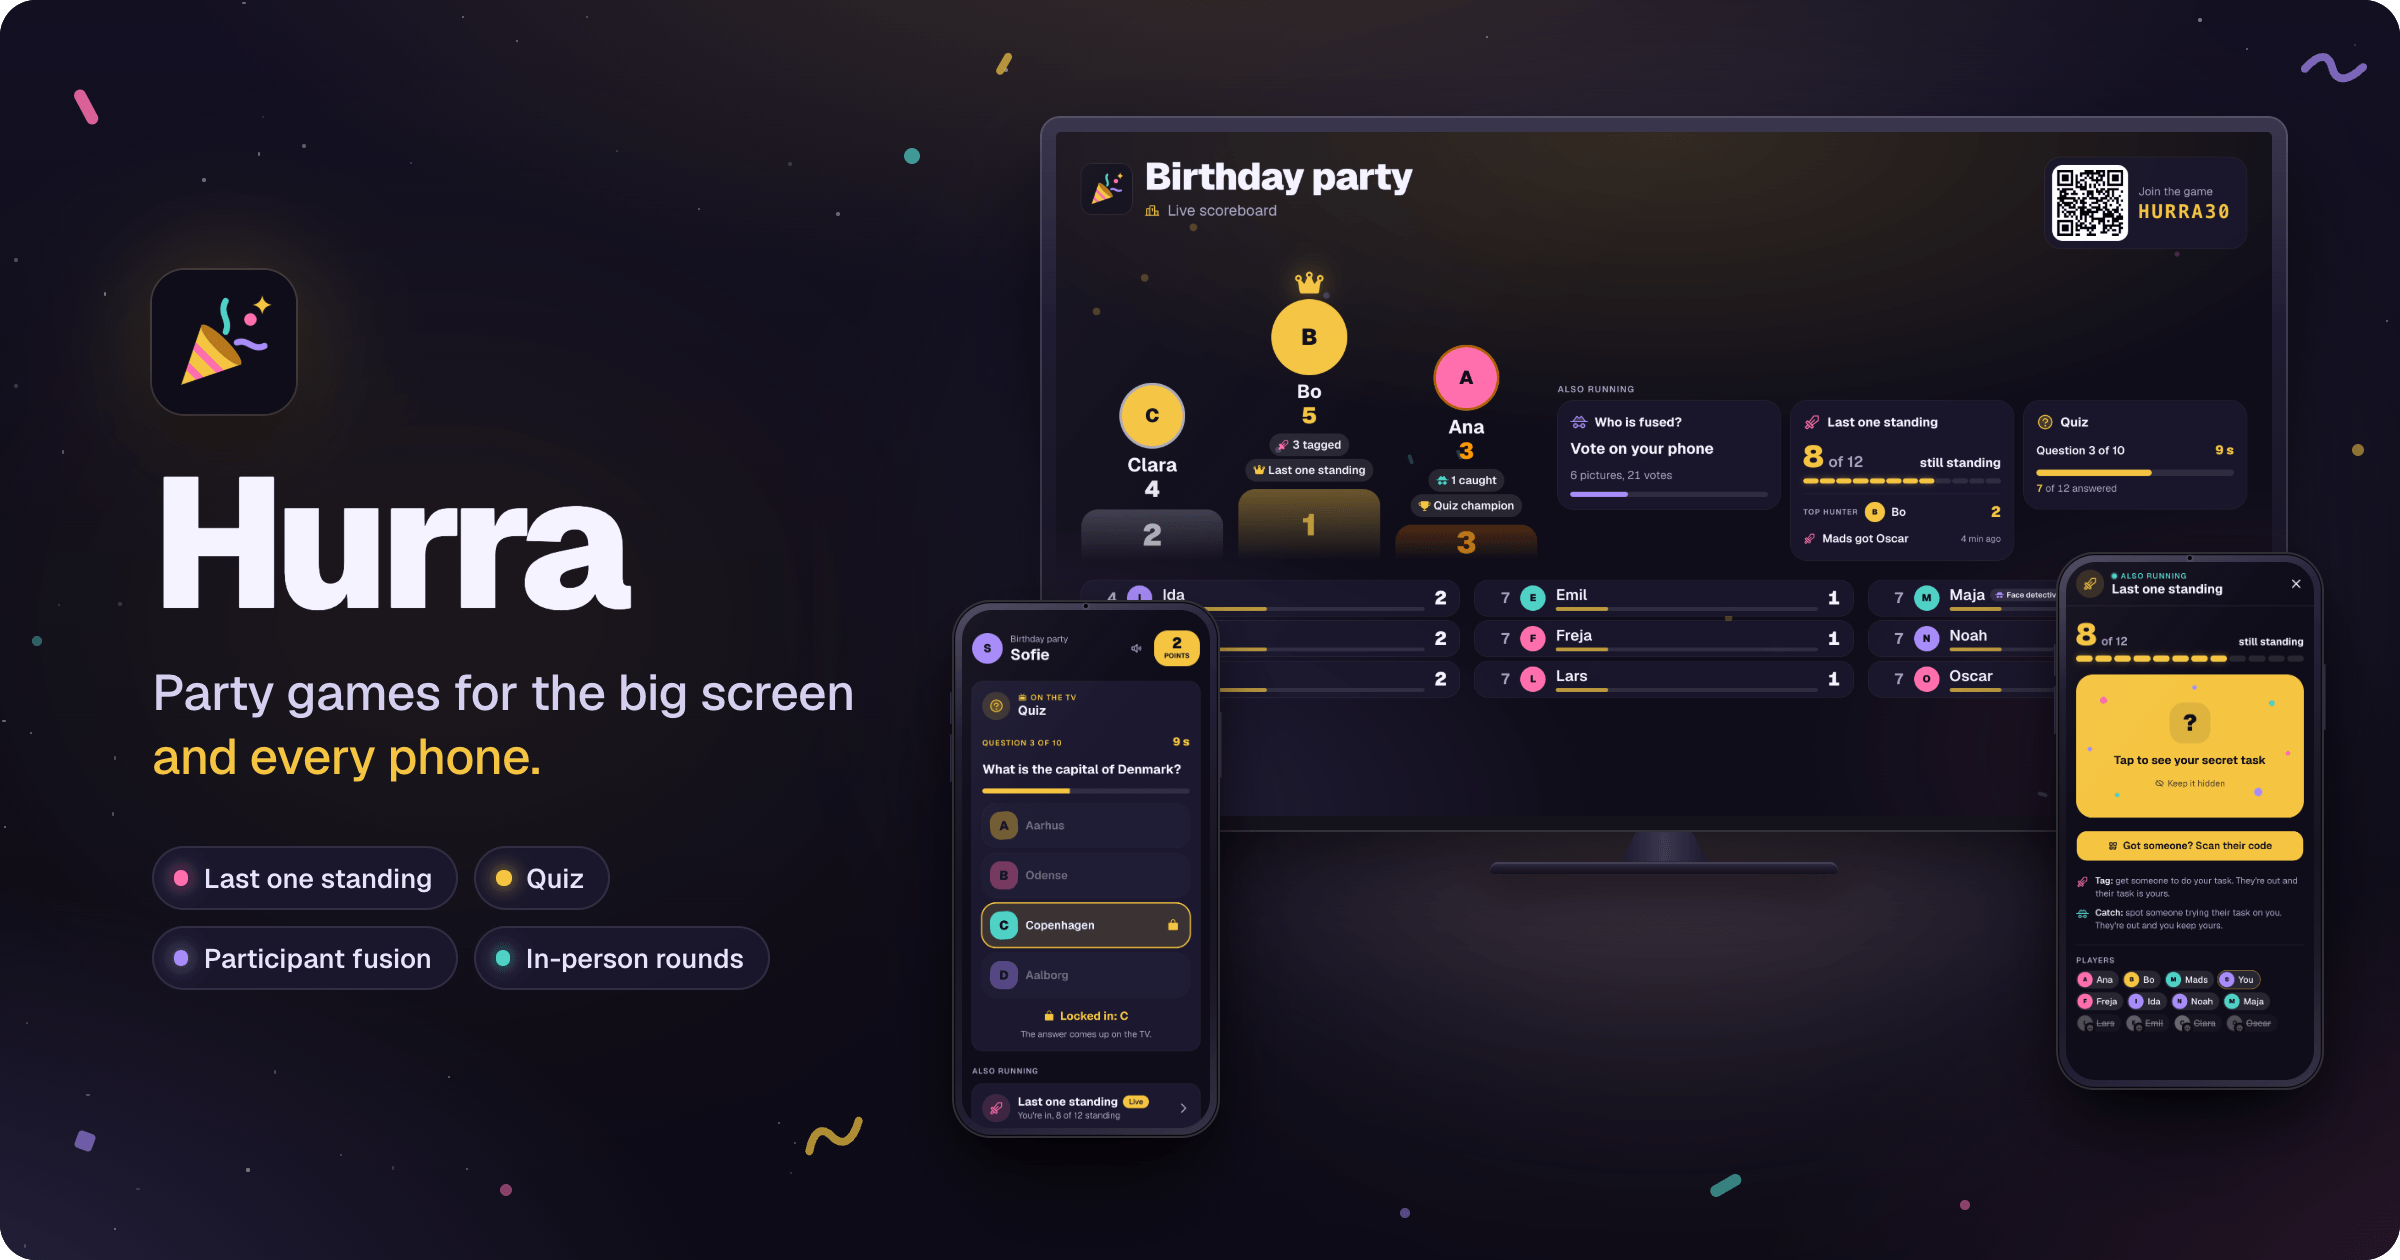
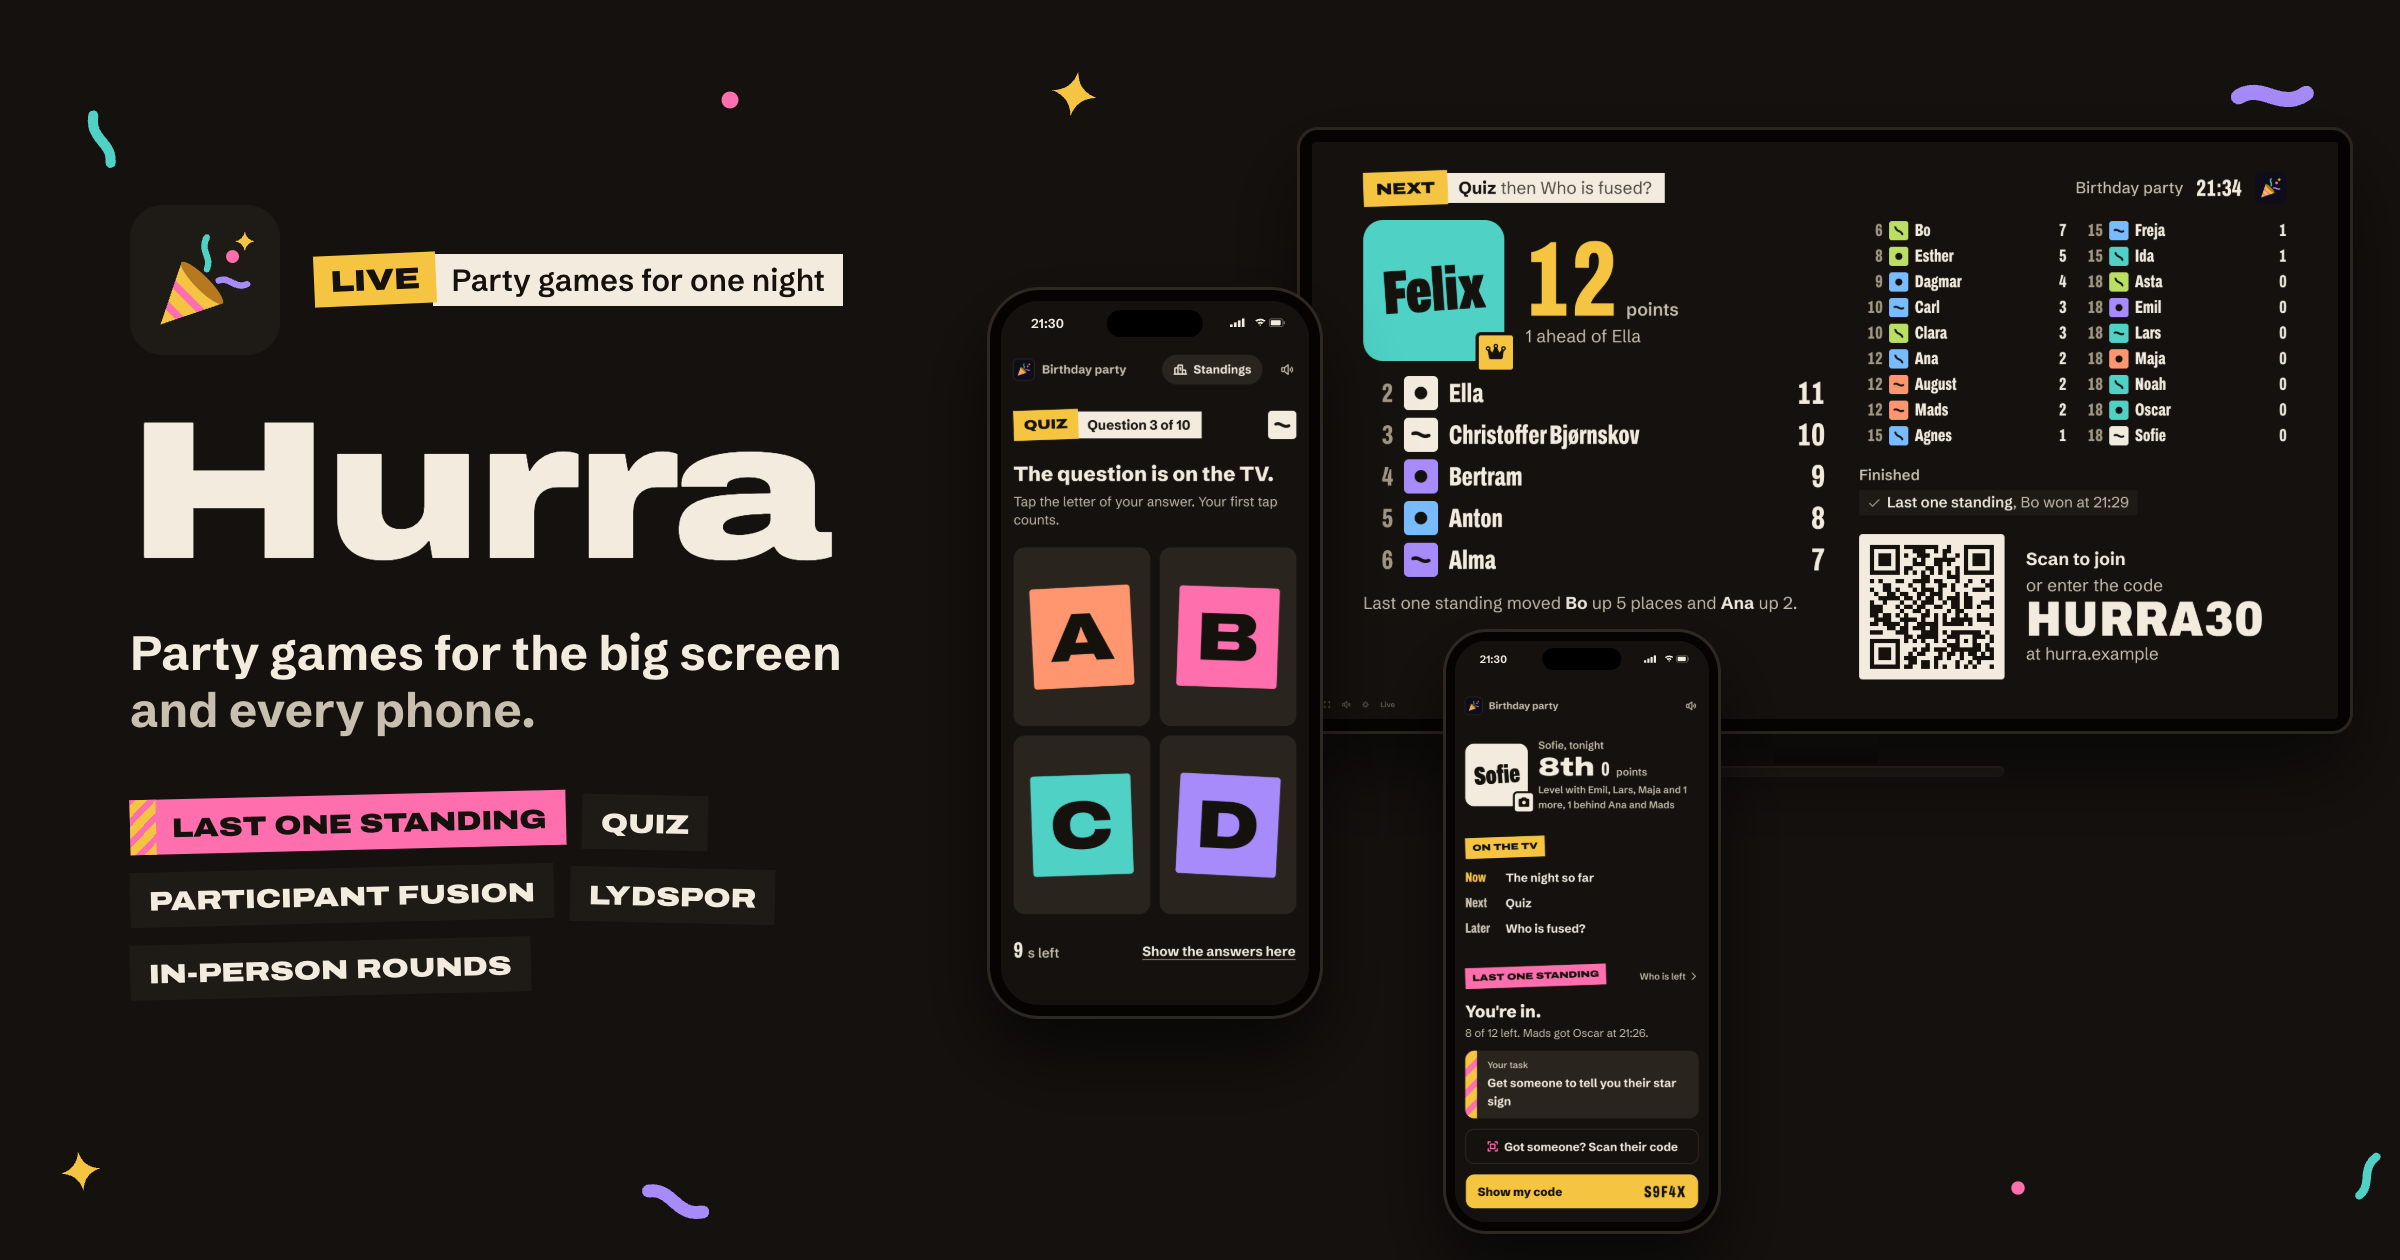
The README's pictures show Hurra as it looks now, with all five games
Every store image is new, in the Running Order look: the warm studio black,
a tilted gold tab over a paper strap (pink with the popper's stripes for Last
one standing), Archivo wide for the big words, Schibsted Grotesk for reading,
the logo's four confetti pieces, and flat devices with no glass. Same file
names and sizes, so the layout holds; tv-5 (Participant fusion's reveal),
tv-6 (Lydspor's wall of event photos) and phone-6 (Lydspor's reveal, where a
close title counts) are new.

Captured only from the dev build's ?fixture scenes (sample names, drawn
pictures), TV at 1920x1080 2x, phones at 390x844 3x, the control room at
1440x900 2x. The TV prints its join address as hurra.example, a reserved
name, and Lydspor's event photos, which the local stack has no files for,
are drawn placeholder scenes.

README: the hero's alt text names the five games, "Four games" is now five,
the phones stand in two rows of three, every alt text and caption describes
its new picture, What's new gains Lydspor, fusion as a stage show, the guest
list, guest photos, latecomers dealt in, the phone following the TV and the
Brighter picture, and the games table has a Lydspor row.

diff --git a/README.md b/README.md
@@ -1,5 +1,5 @@
 <p align="center">
-  <img src="docs/screenshots/store/hero.png" width="100%" alt="Hurra: party games for the big screen and every phone. A TV shows the live scoreboard with a podium and the join code, while one phone answers the quiz and another holds a secret task in Last one standing.">
+  <img src="docs/screenshots/store/hero.png" width="100%" alt="Hurra: party games for the big screen and every phone. A TV shows the standings with Felix in the lead, the whole field and the QR code to join, while one phone holds the quiz's four letters and another a secret task in Last one standing. Beside them, the five games: Last one standing, Quiz, Participant fusion, Lydspor and In-person rounds.">
 </p>
 
 <p align="center">
@@ -8,47 +8,63 @@
 </p>
 
 <p align="center">
-  Free&nbsp;&nbsp;·&nbsp;&nbsp;No app to install&nbsp;&nbsp;·&nbsp;&nbsp;Up to 45 players&nbsp;&nbsp;·&nbsp;&nbsp;Four games, several at once&nbsp;&nbsp;·&nbsp;&nbsp;Made in Copenhagen
+  Free&nbsp;&nbsp;·&nbsp;&nbsp;No app to install&nbsp;&nbsp;·&nbsp;&nbsp;Up to 45 players&nbsp;&nbsp;·&nbsp;&nbsp;Five games, several at once&nbsp;&nbsp;·&nbsp;&nbsp;Made in Copenhagen
 </p>
 
 ## Screenshots
 
 <p align="center">
-  <img src="docs/screenshots/store/phone-1.png" width="160" alt="Join: scan, pick a name, and you're in. The phone shows the standings and a button to show your own code.">
-  <img src="docs/screenshots/store/phone-2.png" width="160" alt="Quiz: the question and four answers on the phone, with the seconds counting down.">
-  <img src="docs/screenshots/store/phone-3.png" width="160" alt="Participant fusion: pick the two guests fused into a picture on your phone.">
-  <img src="docs/screenshots/store/phone-4.png" width="160" alt="Last one standing: your secret task, how many are still standing, and a button to scan someone's code.">
-  <img src="docs/screenshots/store/phone-5.png" width="160" alt="Recap: your place for the night and your points game by game.">
+  <img src="docs/screenshots/store/phone-1.png" width="200" alt="Join: Who are you? on the phone, with the host's guest list to tap your name in, a search, and I'm not on the list for anyone the host didn't add.">
+  <img src="docs/screenshots/store/phone-2.png" width="200" alt="Quiz: the question is on the TV, and the phone holds the four letters A to D, with 9 seconds left and Show the answers here.">
+  <img src="docs/screenshots/store/phone-3.png" width="200" alt="Participant fusion: Who is in it? for picture 4, with 14 seconds left and the names only, no photos. Ana and Mads are picked, and Lock in is ready.">
 </p>
 
 <p align="center">
-  <img src="docs/screenshots/store/tv-1.png" width="100%" alt="The TV between games: the podium with Bo, Clara and Ana, everyone's points, and the QR code to join.">
+  <img src="docs/screenshots/store/phone-4.png" width="200" alt="Last one standing: You're in, 8 of 12 left, the secret task turned over to read Get someone to tell you their star sign, and a button to scan someone's code.">
+  <img src="docs/screenshots/store/phone-6.png" width="200" alt="Lydspor: the reveal of song 1 on the phone. The event photo L, The harbour, 2009, is right, and the title Paper Lanterns, typed as Papir Lanterner, counts because the host accepted it as close.">
+  <img src="docs/screenshots/store/phone-5.png" width="200" alt="Recap: That's a wrap. Sofie's night on her phone: 5th of 12 with 10 points, and her points game by game.">
+</p>
+
+<p align="center">
+  <img src="docs/screenshots/store/tv-1.png" width="100%" alt="The TV between games: Felix leads with 12 points, the next five and the whole field with Out beside the guests knocked out, the QR code and HURRA30 to join, and Last one standing running in the band at the bottom.">
   <br>
-  <sub>Between games, the TV shows the podium, everyone's points and the code to join.</sub>
+  <sub>Between games, the TV shows the leader, the standings and the code to join, with the games in the background along the bottom.</sub>
 </p>
 
 <p align="center">
-  <img src="docs/screenshots/store/tv-2.png" width="100%" alt="The TV during the quiz: question 3 of 10 with 7 of 12 answered, the top 5, and Who is fused? and Last one standing running beside it.">
+  <img src="docs/screenshots/store/tv-2.png" width="100%" alt="The quiz on the TV: What is the capital of Denmark? with the four answers A to D, 9 seconds left, and 6 of 24 have answered.">
   <br>
-  <sub>Answers come in live, with the top 5 and the background games beside the question.</sub>
+  <sub>The question and its four answers fill the TV, with the seconds left and how many have answered.</sub>
 </p>
 
 <p align="center">
-  <img src="docs/screenshots/store/tv-4.png" width="100%" alt="The TV after an in-person round: Freja wins Beer pong, with the top 5 and the games still running beside it.">
+  <img src="docs/screenshots/store/tv-5.png" width="100%" alt="Participant fusion on the TV: the reveal of picture 4, the fused portrait in the middle with Bo and Maja's own photos on either side, 3 of 9 got both, and the sharpest eyes so far.">
   <br>
-  <sub>When a game on the stage finishes, its final screen stays up for 3 minutes.</sub>
+  <sub>Participant fusion is a stage show: each picture comes up with a little suspense, and its reveal brings in the two originals.</sub>
 </p>
 
 <p align="center">
-  <img src="docs/screenshots/store/tv-3.png" width="100%" alt="The recap on the TV: The race, the top 8 and their points through the night.">
+  <img src="docs/screenshots/store/tv-6.png" width="100%" alt="Lydspor on the TV: song 5 of 8 is playing, 6 of 10 have typed a title, the songs so far with their times, and the wall of 12 event photos lettered A to L.">
+  <br>
+  <sub>In Lydspor a song plays, and everyone pairs it with its event on the wall of photos.</sub>
+</p>
+
+<p align="center">
+  <img src="docs/screenshots/store/tv-4.png" width="100%" alt="The TV after an in-person round: Hurra for Freja, who won Beer pong with 7 points, the night's top three on paper steps, and the games still running underneath.">
+  <br>
+  <sub>When a game on the stage finishes, its winner gets the screen for 3 minutes.</sub>
+</p>
+
+<p align="center">
+  <img src="docs/screenshots/store/tv-3.png" width="100%" alt="The recap on the TV: The race, the top 8 and their points through the night, with Bo, Freja and Maja level on 12.">
   <br>
   <sub>The race, one part of the recap: the top 8 and their points through the night.</sub>
 </p>
 
 <p align="center">
-  <img src="docs/screenshots/store/host.png" width="100%" alt="The host control room on a laptop: the quiz on the TV now, three live games, the join code and the players.">
+  <img src="docs/screenshots/store/host.png" width="100%" alt="The host control room on a laptop: the quiz on the TV now, the three live games as cards, the join code and the guest list with 12 of 16 here. Beside it, the control room on a phone shows the guests: four Not yet and the rest Here.">
   <br>
-  <sub>The control room runs on a laptop or a phone. Pair a TV, start games and find any guest.</sub>
+  <sub>The control room runs on a laptop or a phone. Pair a TV, start games and see who is here.</sub>
 </p>
 
 ## What's new
@@ -60,13 +76,28 @@
 - **A live quiz.** Questions on the TV, answers on every phone. Faster right
   answers score more.
 - **Participant fusion.** AI portraits of two fused guests, hidden until each
-  is asked: the TV picks the next one with a little suspense, then you pick
-  the two names on your phone and lock in. The name search works like an
-  autocomplete, so "soren" finds Søren.
+  is asked. You pick the two names on your phone and lock in. The name search
+  works like an autocomplete, so "soren" finds Søren.
+- **Fusion as a stage show.** A highlight hops across the wall of "?" pictures
+  and lands on the next one. Phones show names only, no photos, and the
+  reveal brings in the two originals beside the picture.
+- **Lydspor.** A song plays, and you pair it with its event on a wall of
+  photos, then type its title and who sings it. Close spelling counts, and
+  the host can accept more answers.
+- **The guest list.** The host adds the guests before the party. You pick
+  your name when you join, and the host sees who is Here and who is Not yet.
+- **Guest photos.** Add a photo as you join, and it stands for you on the TV
+  and every phone.
+- **Latecomers dealt in.** Join after Last one standing has started, and you
+  still get a secret task of your own.
+- **The phone follows the TV.** While a game holds the TV, your phone shows
+  only that game, with the standings one tap away.
 - **The night's recap.** The host previews and publishes it, the TV plays it,
   and every guest finds their own night on their phone.
 - **The TV from your own browser.** No second device for the TV? *Show the TV
   here* opens it in a tab of the host's browser, ready to cast.
+- **A brighter picture.** For a TV that shows dark tones as black, *Brighter
+  picture* in the TV's corner lifts the dark end of the look.
 - **Sound effects under the music.** The host sets how loud the TV plays
   its sound effects, from off to full, so they sit under the party's music.
 - **Games that finish by themselves.** The quiz, fusion and Last one standing
@@ -85,6 +116,7 @@
 | **Last one standing** | All night, in the background | Everyone gets a secret task and one life. Get someone to do your task and they're out, and their task becomes yours. Or catch someone trying theirs on you. Scan their code to knock them out. The TV keeps count of who is still standing, and the last one standing wins. |
 | **Quiz** | On the TV | The host runs the questions and everyone answers on their phone. Right answers score more the faster they come. Time's up reveals the answer, a leaderboard follows, and the host crowns the winner. |
 | **Participant fusion** | On the TV | AI images fuse two guests into one portrait. The pictures stay hidden on the TV (a "?" over a drawn head and shoulders) until the host asks them one by one; the TV picks each with a little suspense, and everyone picks the two names in it on their phone (names only, no photos) and locks in before time runs out. The reveal shows who it was, with their own photos. Everyone guesses every picture, the two in it too. The host crowns the sharpest eye. |
+| **Lydspor** | On the TV | Each song belongs to an event, shown as a photo on the wall. A song plays, and everyone types its title and who sings it on their phone and taps the photo of its event. Close spelling counts, and any song can change until the last call. Then the storyteller reveals each song and tells its story. |
 | **In-person round** | In the room | Points for anything that happens in the room, like a round of beer pong. The host gives them by hand, by scanning the guest's code. |
 
 Several games run at once: a long one in the background while short ones take
@@ -92,7 +124,7 @@ the TV. A game finishes by itself in the moment it has its winner, except an
 in-person round, which runs until the host ends it. The host can always end
 one early.
 
-These four are built, and more is planned.
+These five are built, and more is planned.
 
 ## How it works
 
